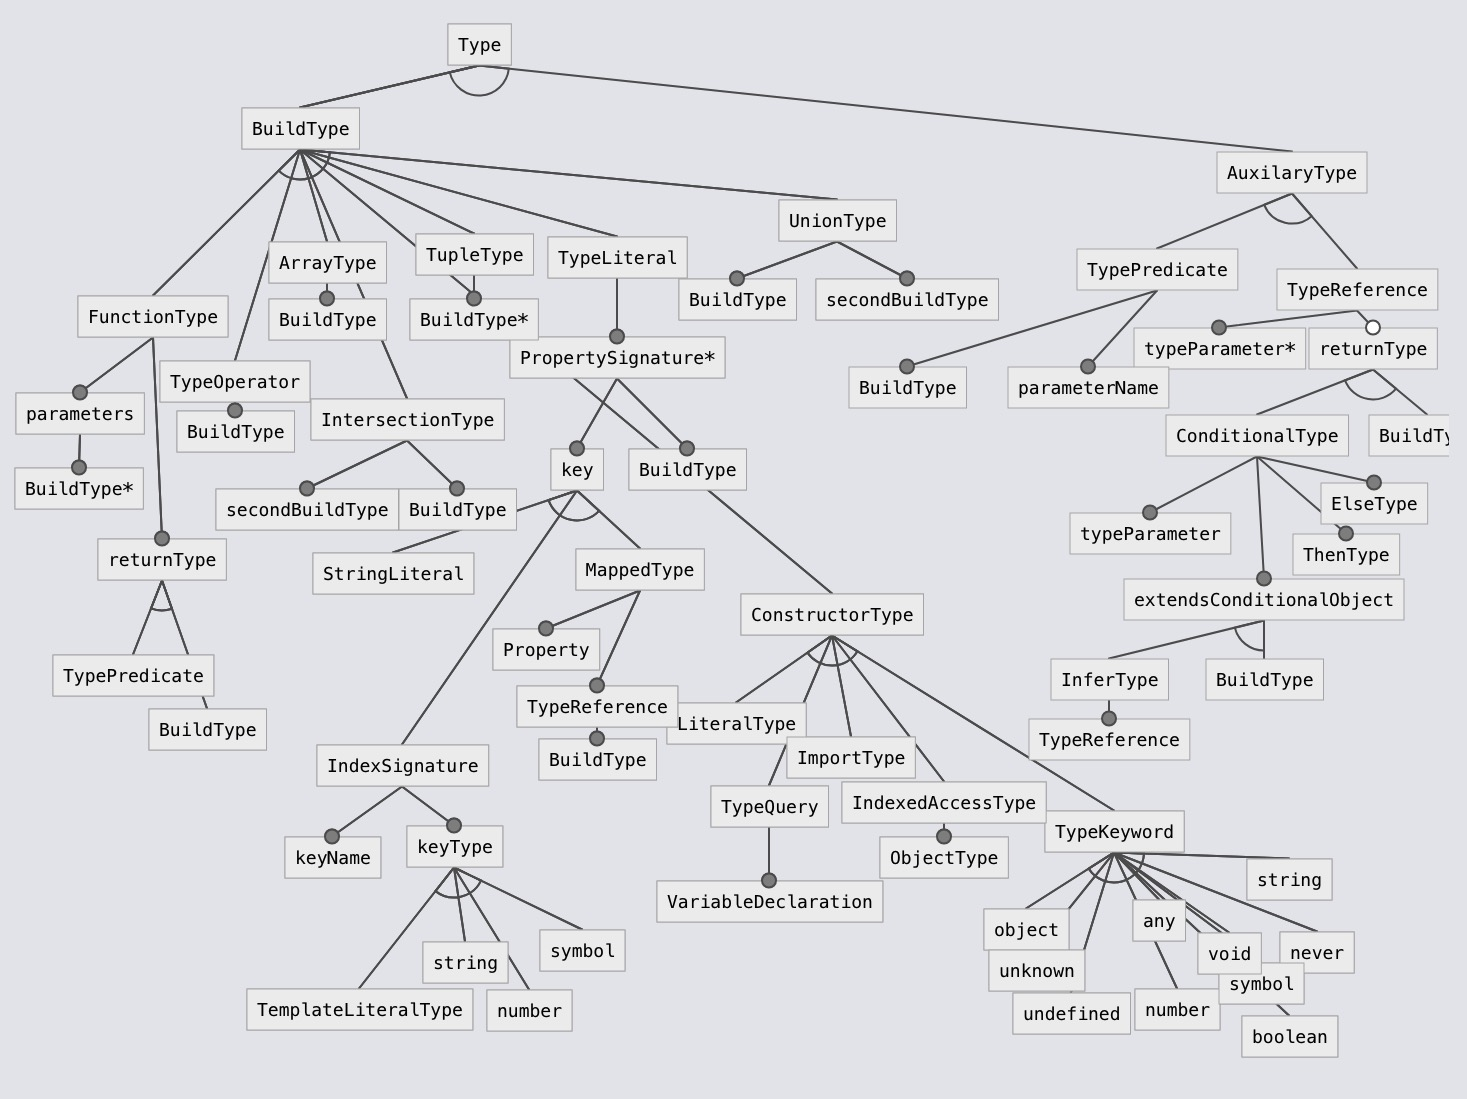
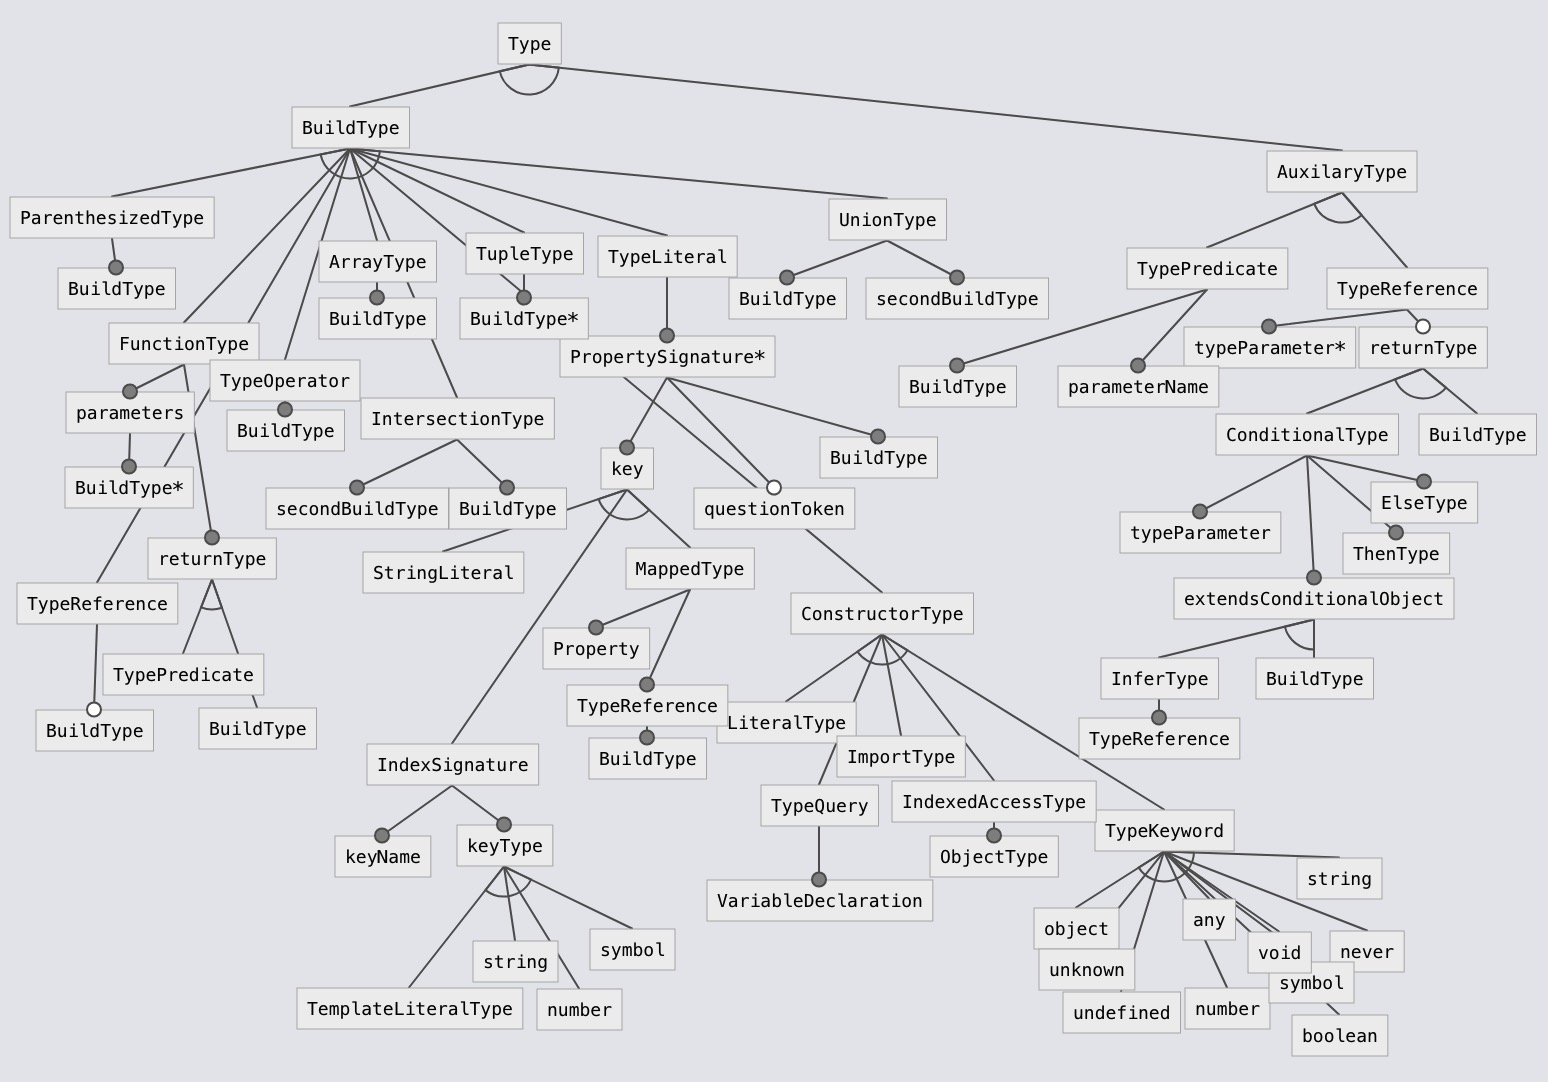
type feedback

Changed region(s): [[0.0, 0.0305, 1.0, 0.976], [0.6135, 0.0915, 0.7669, 0.122], [0.6442, 0.6405, 0.6748, 0.671]]

diff --git a/groupMembersModel/type/code.ts b/groupMembersModel/type/code.ts
@@ -20,13 +20,9 @@ export const Type: FeatureModel = {
         {
           name: "returnType",
           parentRelation: "mandatory",
-          childrenRelation: "xor",
           children: [
             {
               name: "Type",
-            },
-            {
-              name: "TypePredicate",
             },
           ],
         },
@@ -97,6 +93,10 @@ export const Type: FeatureModel = {
               ],
             },
             {
+              name: "questionToken",
+              parentRelation: "optional",
+            },
+            {
               name: "Type",
               parentRelation: "mandatory",
             },
@@ -110,6 +110,24 @@ export const Type: FeatureModel = {
         {
           name: "Type",
           parentRelation: "mandatory",
+        },
+      ],
+    },
+    {
+      name: "ParenthesizedType",
+      children: [
+        {
+          name: "Type",
+          parentRelation: "mandatory",
+        },
+      ],
+    },
+    {
+      name: "TypeReference",
+      children: [
+        {
+          name: "Type",
+          parentRelation: "optional",
         },
       ],
     },
@@ -130,7 +148,7 @@ export const Type: FeatureModel = {
           parentRelation: "mandatory",
         },
         {
-          name: "secondType",
+          name: "Type",
           parentRelation: "mandatory",
         },
       ],
@@ -143,7 +161,7 @@ export const Type: FeatureModel = {
           parentRelation: "mandatory",
         },
         {
-          name: "secondType",
+          name: "Type",
           parentRelation: "mandatory",
         },
       ],

diff --git a/groupMembersModel/type/full/code.ts b/groupMembersModel/type/full/code.ts
@@ -101,6 +101,10 @@ export const Type: FeatureModel = {
                   ],
                 },
                 {
+                  name: "questionToken",
+                  parentRelation: "optional",
+                },
+                {
                   name: "BuildType",
                   parentRelation: "mandatory",
                 },
@@ -114,6 +118,24 @@ export const Type: FeatureModel = {
             {
               name: "BuildType",
               parentRelation: "mandatory",
+            },
+          ],
+        },
+        {
+          name: "ParenthesizedType",
+          children: [
+            {
+              name: "BuildType",
+              parentRelation: "mandatory",
+            },
+          ],
+        },
+        {
+          name: "TypeReference",
+          children: [
+            {
+              name: "BuildType",
+              parentRelation: "optional",
             },
           ],
         },
